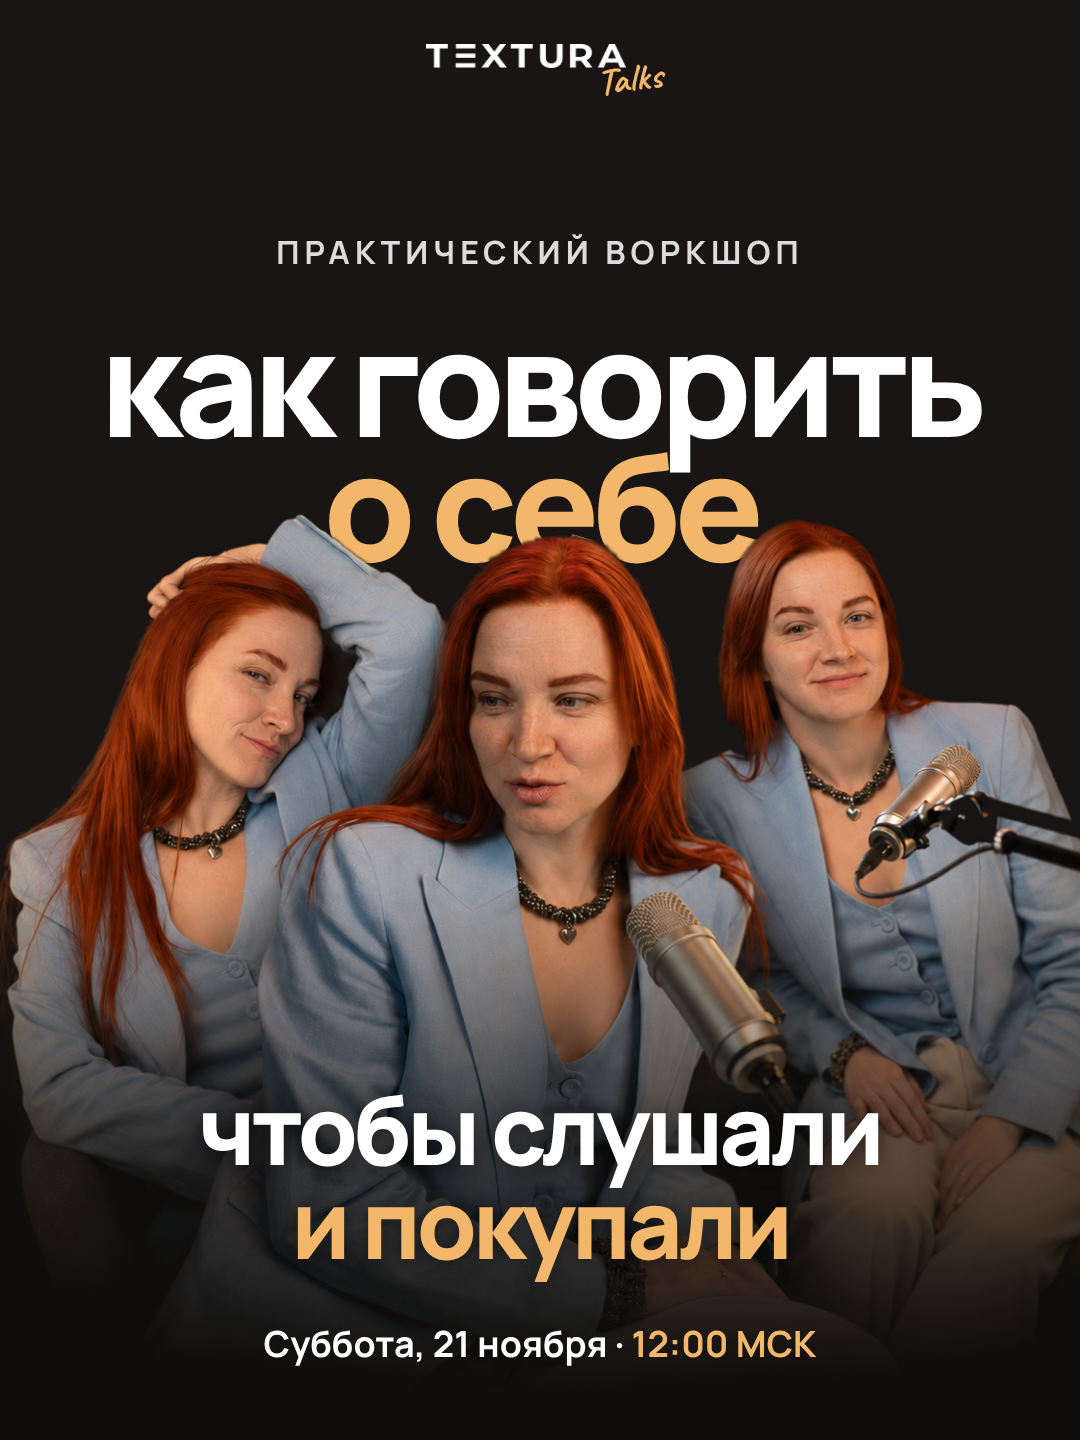
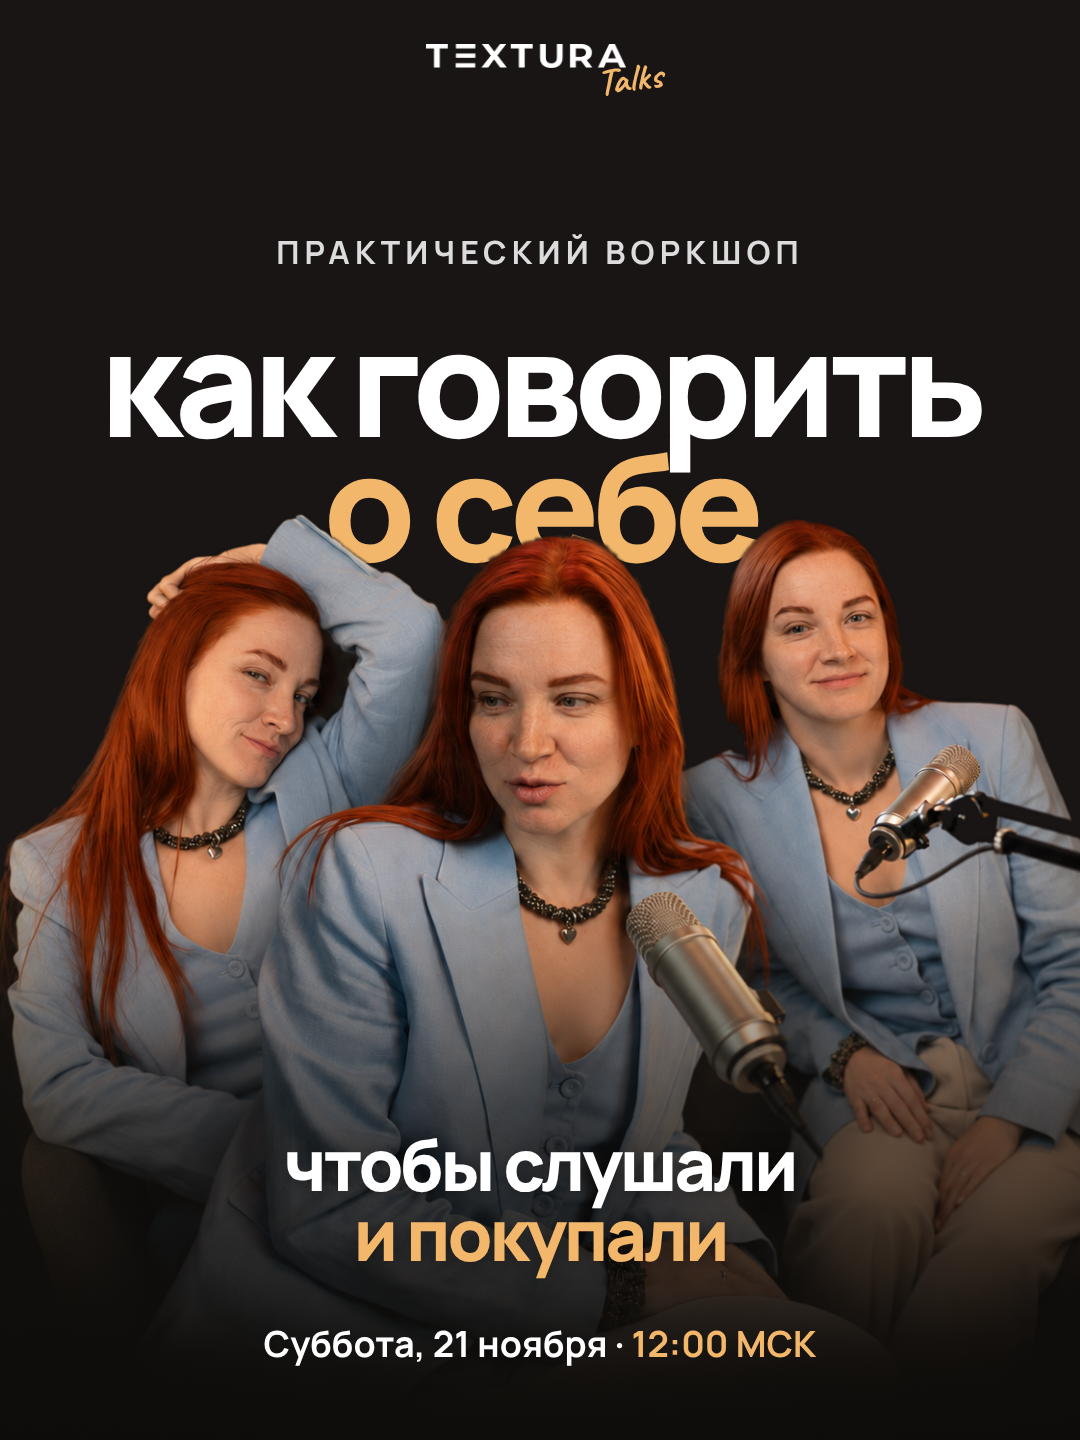
Workshop cover: smaller subtitle
Claude-Session: https://claude.ai/code/session_01EUhV7va23MNh7ydDpeuyX7

Changed region(s): [[0.1833, 0.75, 0.825, 0.875]]

diff --git a/textura-carousel/workshop.html b/textura-carousel/workshop.html
@@ -129,7 +129,7 @@
   <div style="position:absolute; left:0; right:0; top:318px; z-index:1; text-align:center; font-weight:800; font-size:148px; line-height:.84; letter-spacing:-.05em; color:#fff;">как говорить<br><span style="color:var(--accent);">о&nbsp;себе</span></div>
   <img src="photos/three-cut.png" style="position:absolute; left:0; top:120px; width:1080px; z-index:2;" alt="">
   <div style="position:absolute; left:0; right:0; bottom:0; height:560px; z-index:2; background:linear-gradient(180deg, rgba(14,12,10,0) 0%, rgba(14,12,10,.6) 45%, rgba(14,12,10,.95) 100%);"></div>
-  <div style="position:absolute; left:0; right:0; bottom:170px; z-index:3; text-align:center; font-weight:800; font-size:96px; line-height:.98; letter-spacing:-.045em; text-shadow:0 2px 20px rgba(0,0,0,.5);">чтобы слушали<br><span style="color:var(--accent);">и&nbsp;покупали</span></div>
+  <div style="position:absolute; left:0; right:0; bottom:170px; z-index:3; text-align:center; font-weight:800; font-size:72px; line-height:.98; letter-spacing:-.045em; text-shadow:0 2px 20px rgba(0,0,0,.5);">чтобы слушали<br><span style="color:var(--accent);">и&nbsp;покупали</span></div>
   <div style="position:absolute; left:0; right:0; bottom:72px; z-index:3; text-align:center; font-weight:700; font-size:36px; color:#fff;">Суббота, 21 ноября · <span style="color:var(--accent);">12:00 МСК</span></div>
 </section>
 <section class="slide"><div class="photo" style="top:900px; background-image:url(photos/w-listen.jpg); background-position:50% 45%;"></div><div class="logo"><img class="lg" src="photos/textura-logo.png" alt="TEXTURA"><span class="talks">Talks</span></div>
